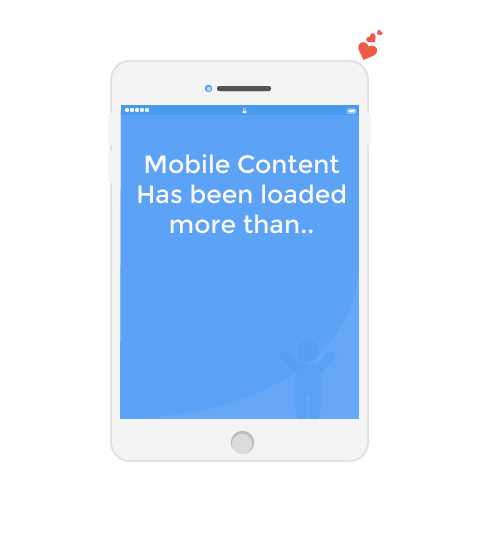
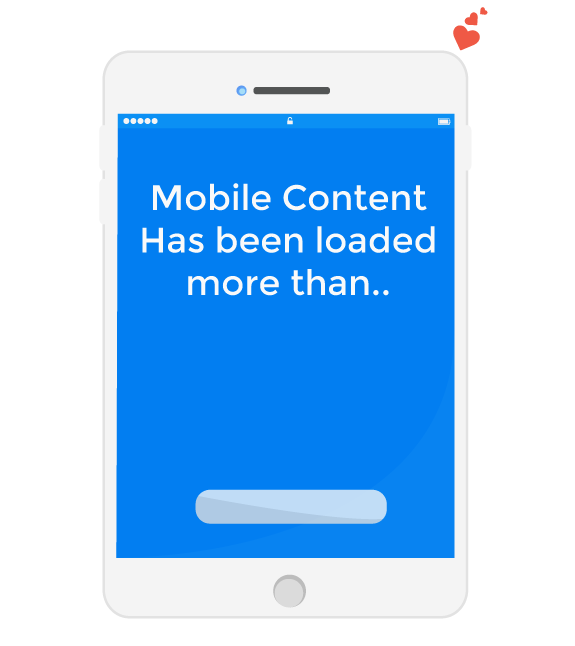
Cyanic Website Updates

diff --git a/src/components/Homepage/ProductTileRight.vue b/src/components/Homepage/ProductTileRight.vue
@@ -3,7 +3,10 @@
     <div class="container">
       <div class="row">
         <div class="col-lg">
-          <img src="../../assets/img/phone-block.png" alt="Product tile 1">
+          <div>
+            <h2>100k</h2>
+          </div>
+          <img class="img-fluid" src="../../assets/img/mobile.png" alt="Product tile 1">
         </div>
         <div class="col-lg product-tile-text">
           <h1>We've got the right skill set to get things done</h1>
@@ -29,10 +32,10 @@
       return {
         images: [
           {
-            id: 1, name: 'VueJs', src: require('../../assets/img/tech-logos/vue.png')
+            id: 1, name: 'Vue', src: require('../../assets/img/tech-logos/vue.png')
           },
           {
-            id: 2, name: 'NodeJs', src: require('../../assets/img/tech-logos/node.png')
+            id: 2, name: 'Node', src: require('../../assets/img/tech-logos/node.png')
           },
           {
             id: 3, name: 'Socket.Io', src: require('../../assets/img/tech-logos/socketio.png')
@@ -42,6 +45,9 @@
           },
           {
             id: 5, name: 'Wordpress', src: require('../../assets/img/tech-logos/wordpress.png')
+          },
+          {
+            id: 6, name: 'And Many More..', src: require('../../assets/img/tech-logos/plusOne.png')
           }
         ]
       }
@@ -79,7 +85,7 @@
     }
 
     .product-tile-text {
-      padding-top: 100px;
+      padding-top: 160px;
     }
   }
 
